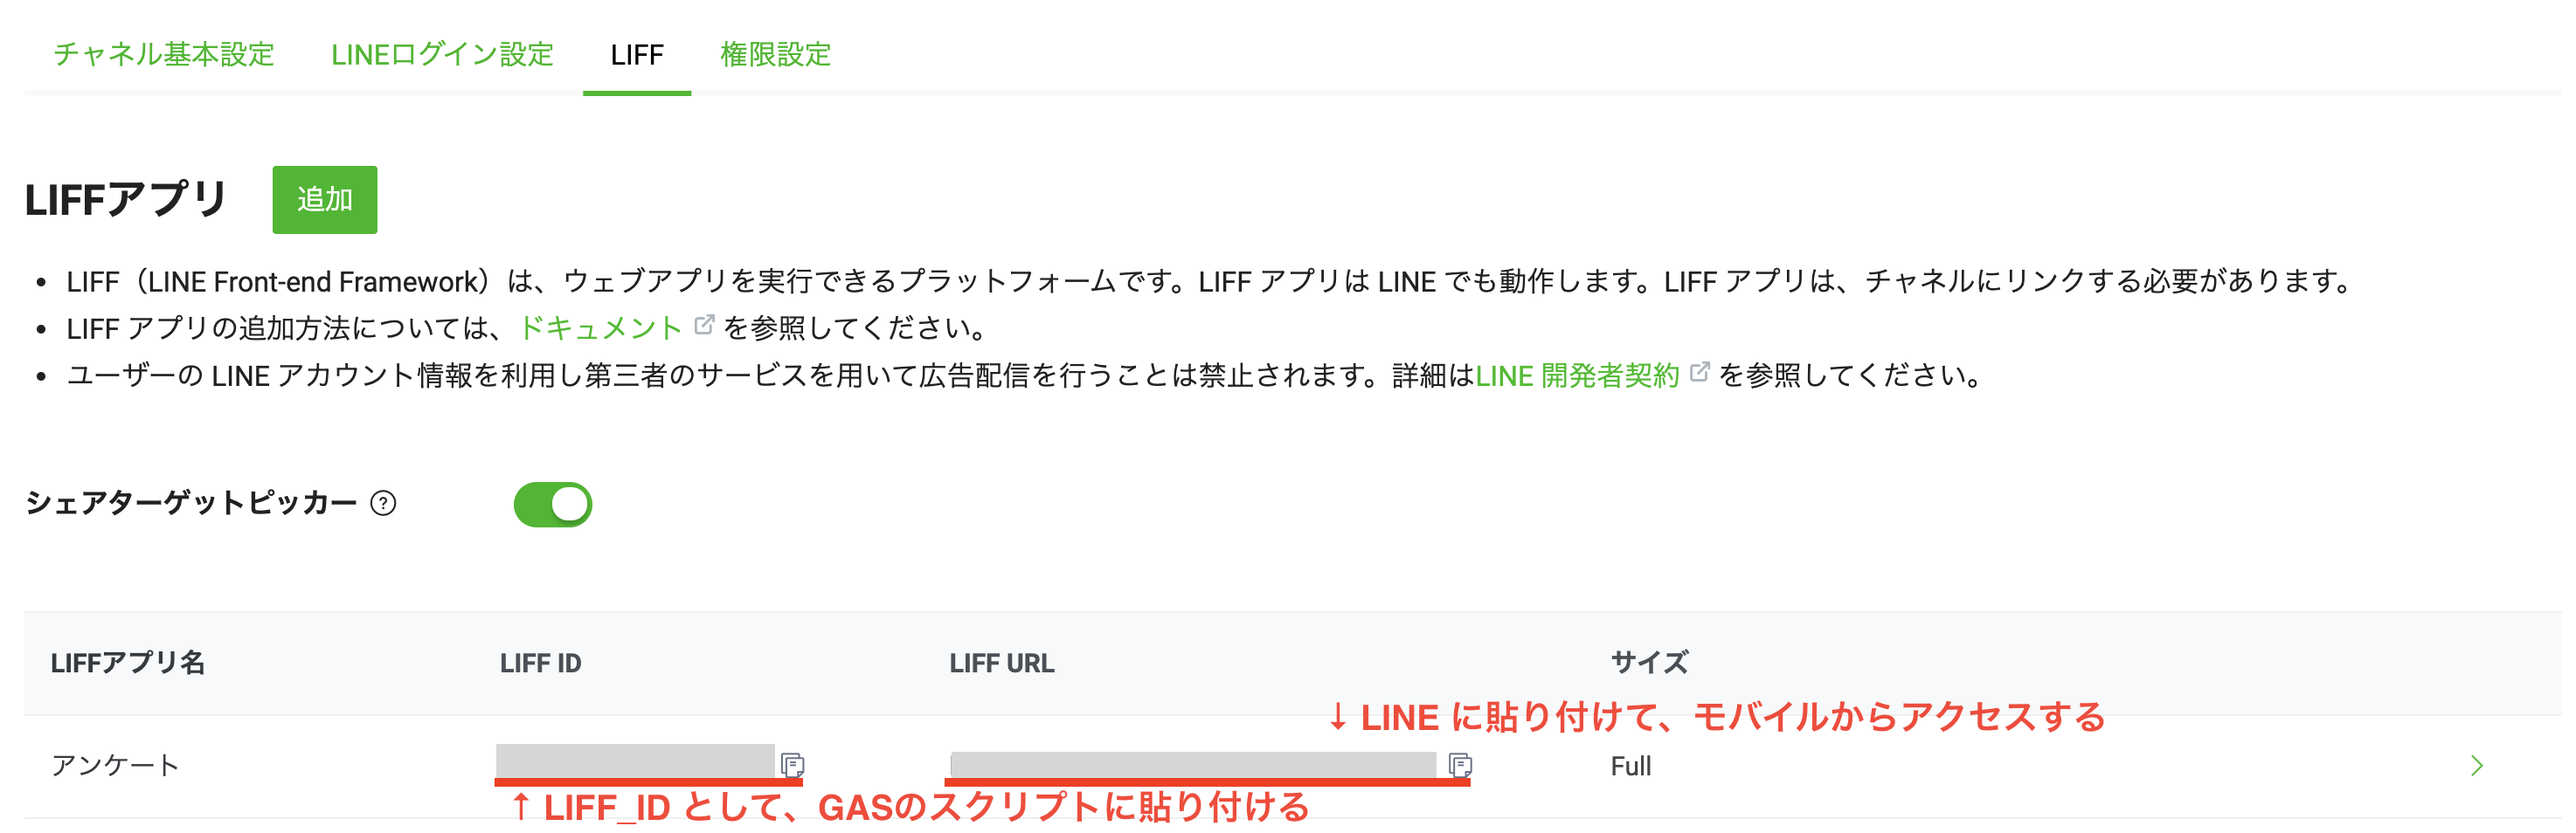
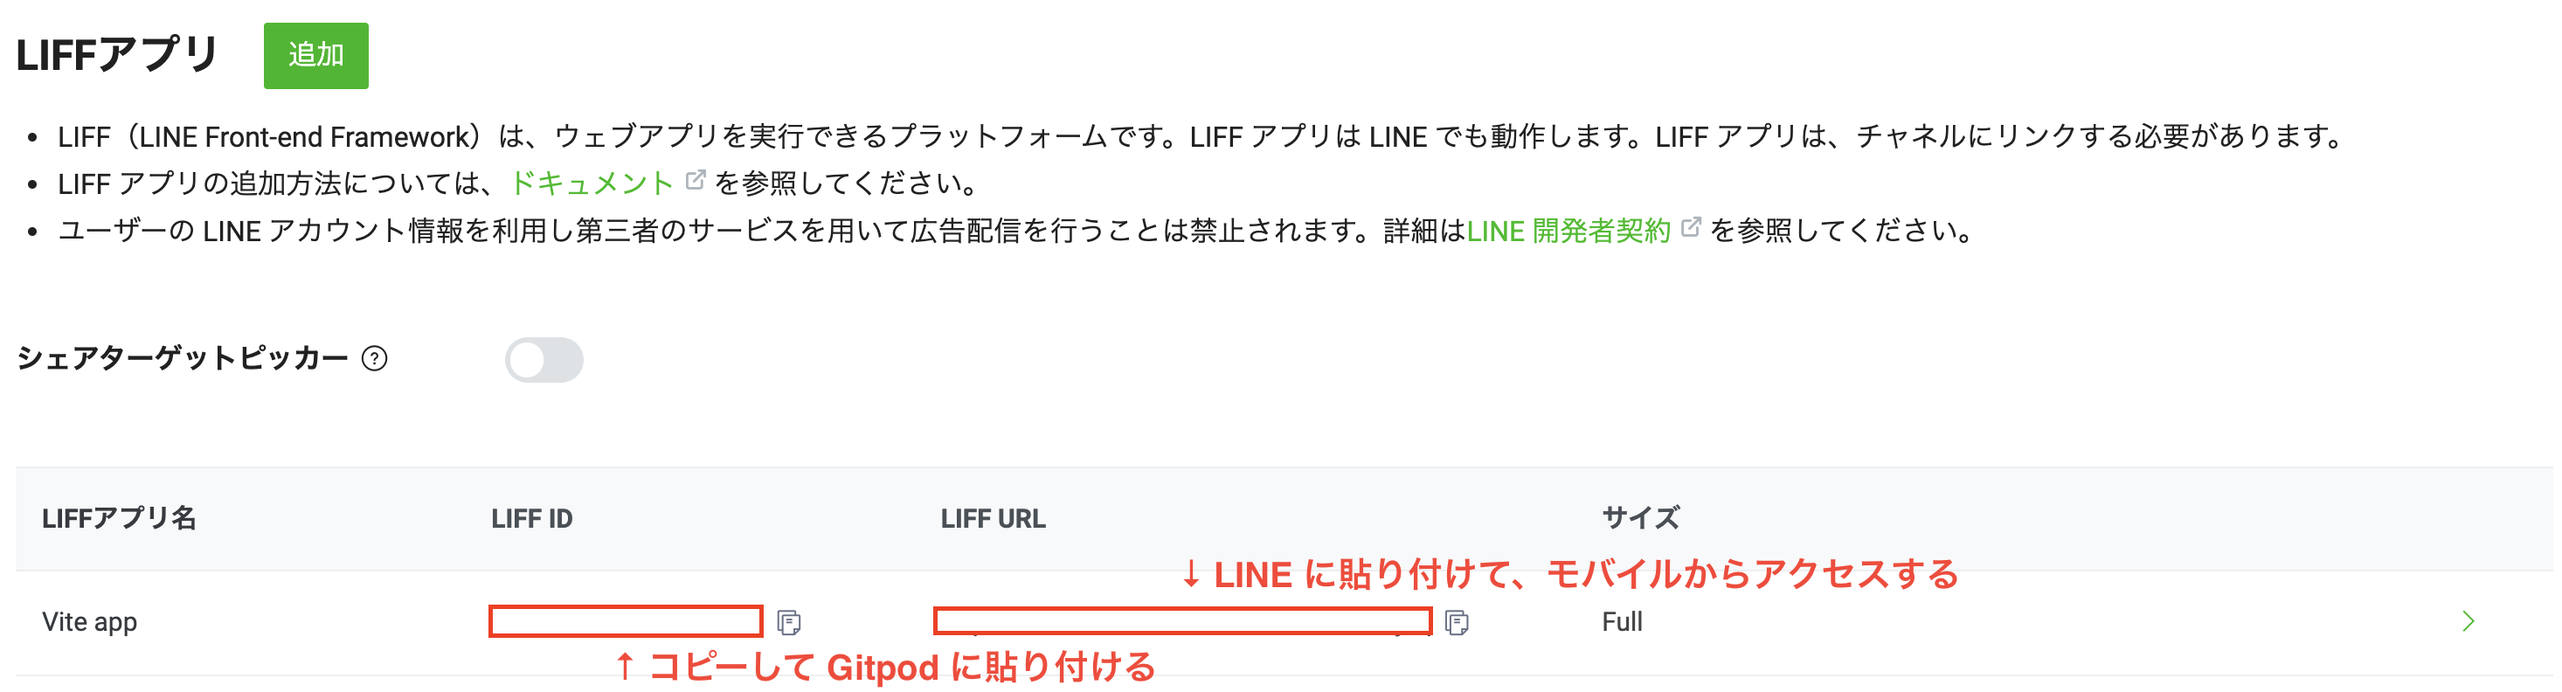
fix images and some

diff --git a/books/react-x-vite-x-liff/page3.md b/books/react-x-vite-x-liff/page3.md
@@ -21,7 +21,7 @@ title: "LINE API(LIFF)の設定"
 LINE Login のアカウントを作成したら、 `LIFF` > `ログイン` を選択し、LIFF の情報を記述していきます。
 
 ```text
-LIFFアプリ名: アンケートアプリ
+LIFFアプリ名: Vite app
 サイズ: Full
 エンドポイントURL: gitpod で起動した Web アプリの URL
 Scope: ✅ profile ✅ すべてを表示 > chat_message.write
@@ -35,12 +35,15 @@ Scope: ✅ profile ✅ すべてを表示 > chat_message.write
 作成した LIFF ID を public/index.html の LIFF_ID に登録します。
 LIFF URL は LINE のチャットに貼り付けます。
 
-```html:public/index.html
-    <script>
-      // 定数を定義する
-      const LIFF_ID = 'LIFF_ID' // <- ここに貼り付ける
-      const REQUEST_URL = 'REQUEST_URL'
-    </script>
+```shell:.env
+VITE_APP_FIREBASE_KEY="YOUR_VITE_APP_FIREBASE_KEY"
+VITE_APP_FIREBASE_DOMAIN="YOUR_VITE_APP_FIREBASE_DOMAIN"
+VITE_APP_FIREBASE_DATABASE="YOUR_VITE_APP_FIREBASE_DATABASE"
+VITE_APP_FIREBASE_PROJECT_ID="YOUR_VITE_APP_FIREBASE_PROJECT_ID"
+VITE_APP_FIREBASE_STORAGE_BUCKET="YOUR_VITE_APP_FIREBASE_STORAGE_BUCKET"
+VITE_APP_FIREBASE_SENDER_ID="YOUR_VITE_APP_FIREBASE_SENDER_ID"
+VITE_APP_FIREBASE_APPID="YOUR_VITE_APP_FIREBASE_APPID"
+VITE_APP_LIFF_ID="YOUR_VITE_APP_LIFF_ID" # => ここを上書きする
 ```
 
 LIFF を活用するために、以下の 2 つの設定が必要になる。
